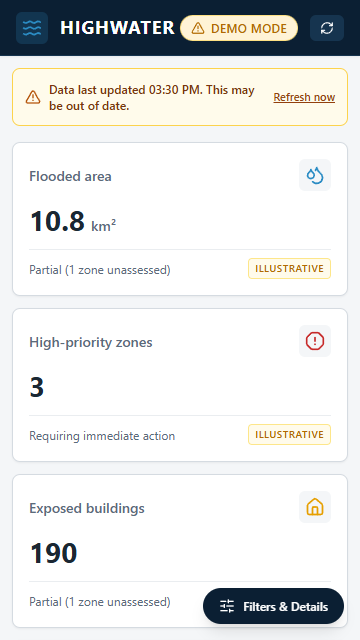
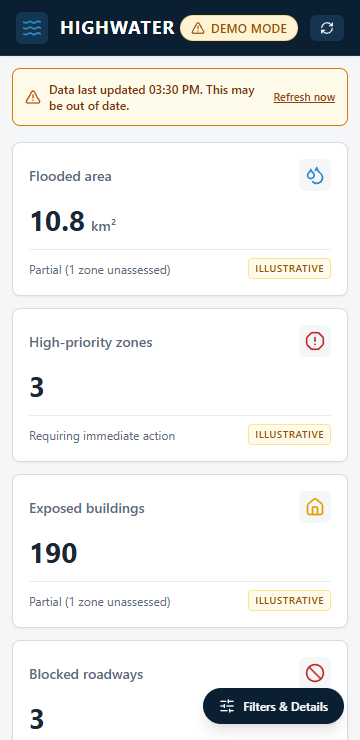
Close out Phase 4 and 5 evidence

diff --git a/modules/dashboard/src/app/DashboardLayout.jsx b/modules/dashboard/src/app/DashboardLayout.jsx
@@ -202,11 +202,11 @@ export default function DashboardLayout({
         {/* 3. Primary Workspace: Map & Side Panel (Responsive) */}
         {allZones.length > 0 && (
           <>
-            <div className="grid grid-cols-1 lg:grid-cols-12 gap-4 lg:gap-6 items-start">
-              {/* Map Container Area (Col span 8 on desktop, full on mobile/tablet) */}
+            <div className="grid grid-cols-1 sm:grid-cols-12 gap-4 lg:gap-6 items-start">
+              {/* Map Container Area (Col span 7 on tablet, 8 on desktop, full on mobile < 640px) */}
               <section
                 aria-label="Flood Map View"
-                className="lg:col-span-8 bg-card border border-border rounded-card shadow-sm overflow-hidden flex flex-col h-[50vh] min-h-[380px] sm:h-[480px] lg:h-[560px]"
+                className="sm:col-span-7 lg:col-span-8 bg-card border border-border rounded-card shadow-sm overflow-hidden flex flex-col h-[50vh] min-h-[380px] sm:h-[480px] lg:h-[560px]"
               >
                 <div className="px-4 py-3 border-b border-border bg-slate-50/50 flex items-center justify-between shrink-0">
                   <div className="flex items-center space-x-2 text-text font-semibold text-sm">
@@ -235,10 +235,10 @@ export default function DashboardLayout({
                 </div>
               </section>
 
-              {/* Side Panel on Desktop: Controls & Details Container (Hidden on small screens, moved to drawer) */}
+              {/* Side Panel on Tablet & Desktop: Controls & Details Container (Hidden under 640px mobile, moved to drawer) */}
               <aside
                 aria-label="Layer Controls and Zone Details"
-                className="hidden lg:block lg:col-span-4 space-y-4"
+                className="hidden sm:block sm:col-span-5 lg:col-span-4 space-y-4"
               >
                 {/* Layer Controls Switch Panel */}
                 <MapControls
@@ -317,8 +317,8 @@ export default function DashboardLayout({
         )}
       </main>
 
-      {/* Floating Drawer Trigger for Mobile & Tablet (T5.4) */}
-      <div className="lg:hidden fixed bottom-4 right-4 z-[1000]">
+      {/* Floating Drawer Trigger for Mobile (< 640px) (T5.4) */}
+      <div className="sm:hidden fixed bottom-4 right-4 z-[1000]">
         <button
           type="button"
           onClick={() => setIsMobileDrawerOpen(true)}

diff --git a/modules/dashboard/src/components/StaleBanner.jsx b/modules/dashboard/src/components/StaleBanner.jsx
@@ -47,7 +47,7 @@ export default function StaleBanner({
       role="status"
       aria-live="polite"
       aria-label="Stale Data Warning"
-      className="p-3 bg-amber-50 border border-amber-300 rounded-card text-xs text-amber-900 flex items-center justify-between gap-3 shadow-xs font-sans"
+      className="p-3 bg-amber-50 border border-amber-600 rounded-card text-xs text-amber-900 flex items-center justify-between gap-3 shadow-xs font-sans"
     >
       <div className="flex items-center space-x-2 min-w-0">
         <AlertTriangle className="w-4 h-4 text-amber-700 shrink-0" aria-hidden="true" />

diff --git a/modules/dashboard/src/components/RiskBadge.jsx b/modules/dashboard/src/components/RiskBadge.jsx
@@ -16,7 +16,7 @@ const RISK_CONFIG = {
   MEDIUM: {
     icon: AlertCircle,
     label: 'MEDIUM',
-    className: 'bg-amber-50 text-risk-medium border border-risk-medium/30',
+    className: 'bg-amber-50 text-amber-900 border border-risk-medium/60',
   },
   LOW: {
     icon: ShieldCheck,
@@ -26,7 +26,7 @@ const RISK_CONFIG = {
   UNKNOWN: {
     icon: HelpCircle,
     label: 'UNKNOWN',
-    className: 'bg-gray-100 text-risk-unknown border border-dashed border-gray-400',
+    className: 'bg-gray-100 text-gray-700 border border-dashed border-gray-400',
   },
 };
 

diff --git a/modules/dashboard/src/config/theme.js b/modules/dashboard/src/config/theme.js
@@ -23,7 +23,8 @@ export const THEME = {
     route: '#6A1B9A',
     selected: '#0B1F33',
     demo: {
-      text: '#B26A00',
+      text: '#965300', // WCAG AA compliant (5.39:1 on #FFF3D6)
+      specText: '#B26A00', // Base design token from design.md
       bg: '#FFF3D6',
     },
   },

diff --git a/modules/dashboard/README.md b/modules/dashboard/README.md
@@ -29,7 +29,7 @@ Configured environment variables:
 | `VITE_DATA_SOURCE` | `mock` | Data source switcher (`mock` or `api`) |
 | `VITE_API_BASE_URL` | `http://localhost:8000/api` | Backend API base URL when in `api` mode |
 | `VITE_REFRESH_INTERVAL_MS` | `30000` | Auto-refresh poll interval in milliseconds |
-| `VITE_STALE_MINUTES` | `30` | Age threshold for displaying stale-data warning banner |
+| `VITE_STALE_MINUTES` | `60` | Age threshold for displaying stale-data warning banner |
 | `VITE_MAP_TILE_URL` | `https://{s}.tile.openstreetmap.org/{z}/{x}/{y}.png` | Base map tile provider template |
 
 ### Running the App
@@ -104,7 +104,7 @@ When a filter is active, stat cards visibly display the contextual badge:
 - **Stale Data Banner**: Prominent top alert triggered when payload `generated_at` exceeds `VITE_STALE_MINUTES`.
 - **Malformed GeoJSON Resilience**: Catches invalid geometries, syntax errors, or coordinate faults at adapter level; isolates broken layers and presents inline layer alerts while the remaining map operates uninterrupted.
 - **Offline Base Map Fallback**: When tile network requests fail or are blocked, the map provides an accessible neutral background (`#e2e8f0`) with an operational notice, preserving interactive vector overlays (flood extents, routes, facilities).
-- **Responsive Mobile Drawer**: At viewports `<= 768px`, operational controls collapse into a mobile drawer with dedicated Map/Controls tabs, preventing horizontal overflow (`<= 360px`) and triggering Leaflet `map.invalidateSize()` on drawer toggle.
+- **Responsive Mobile Drawer & Tablet Layout**: On tablet (640px - 1023px), maintains a 2-column layout with Map and Side Panel side-by-side. On mobile (< 640px), operational controls collapse into a bottom drawer with dedicated tab navigation, preventing horizontal overflow (verified at 360px) and triggering Leaflet `map.invalidateSize()` on drawer toggle.
 
 ---
 
@@ -134,7 +134,7 @@ All operational states captured from headless Chrome test runs:
 ### Desktop Views & Operational States
 | State | Screenshot |
 |---|---|
-| **Full Desktop Dashboard (Phase 3)** | ![Desktop Dashboard](docs/screenshots/phase3_map_desktop.png) |
+| **Full Desktop Dashboard (1280px)** | ![Desktop Dashboard](docs/screenshots/desktop_1280px.png) |
 | **Loading State** | ![Loading State](docs/screenshots/loading_state.png) |
 | **Empty State** | ![Empty State](docs/screenshots/empty_state.png) |
 | **Error State with Retry** | ![Error State](docs/screenshots/error_state.png) |
